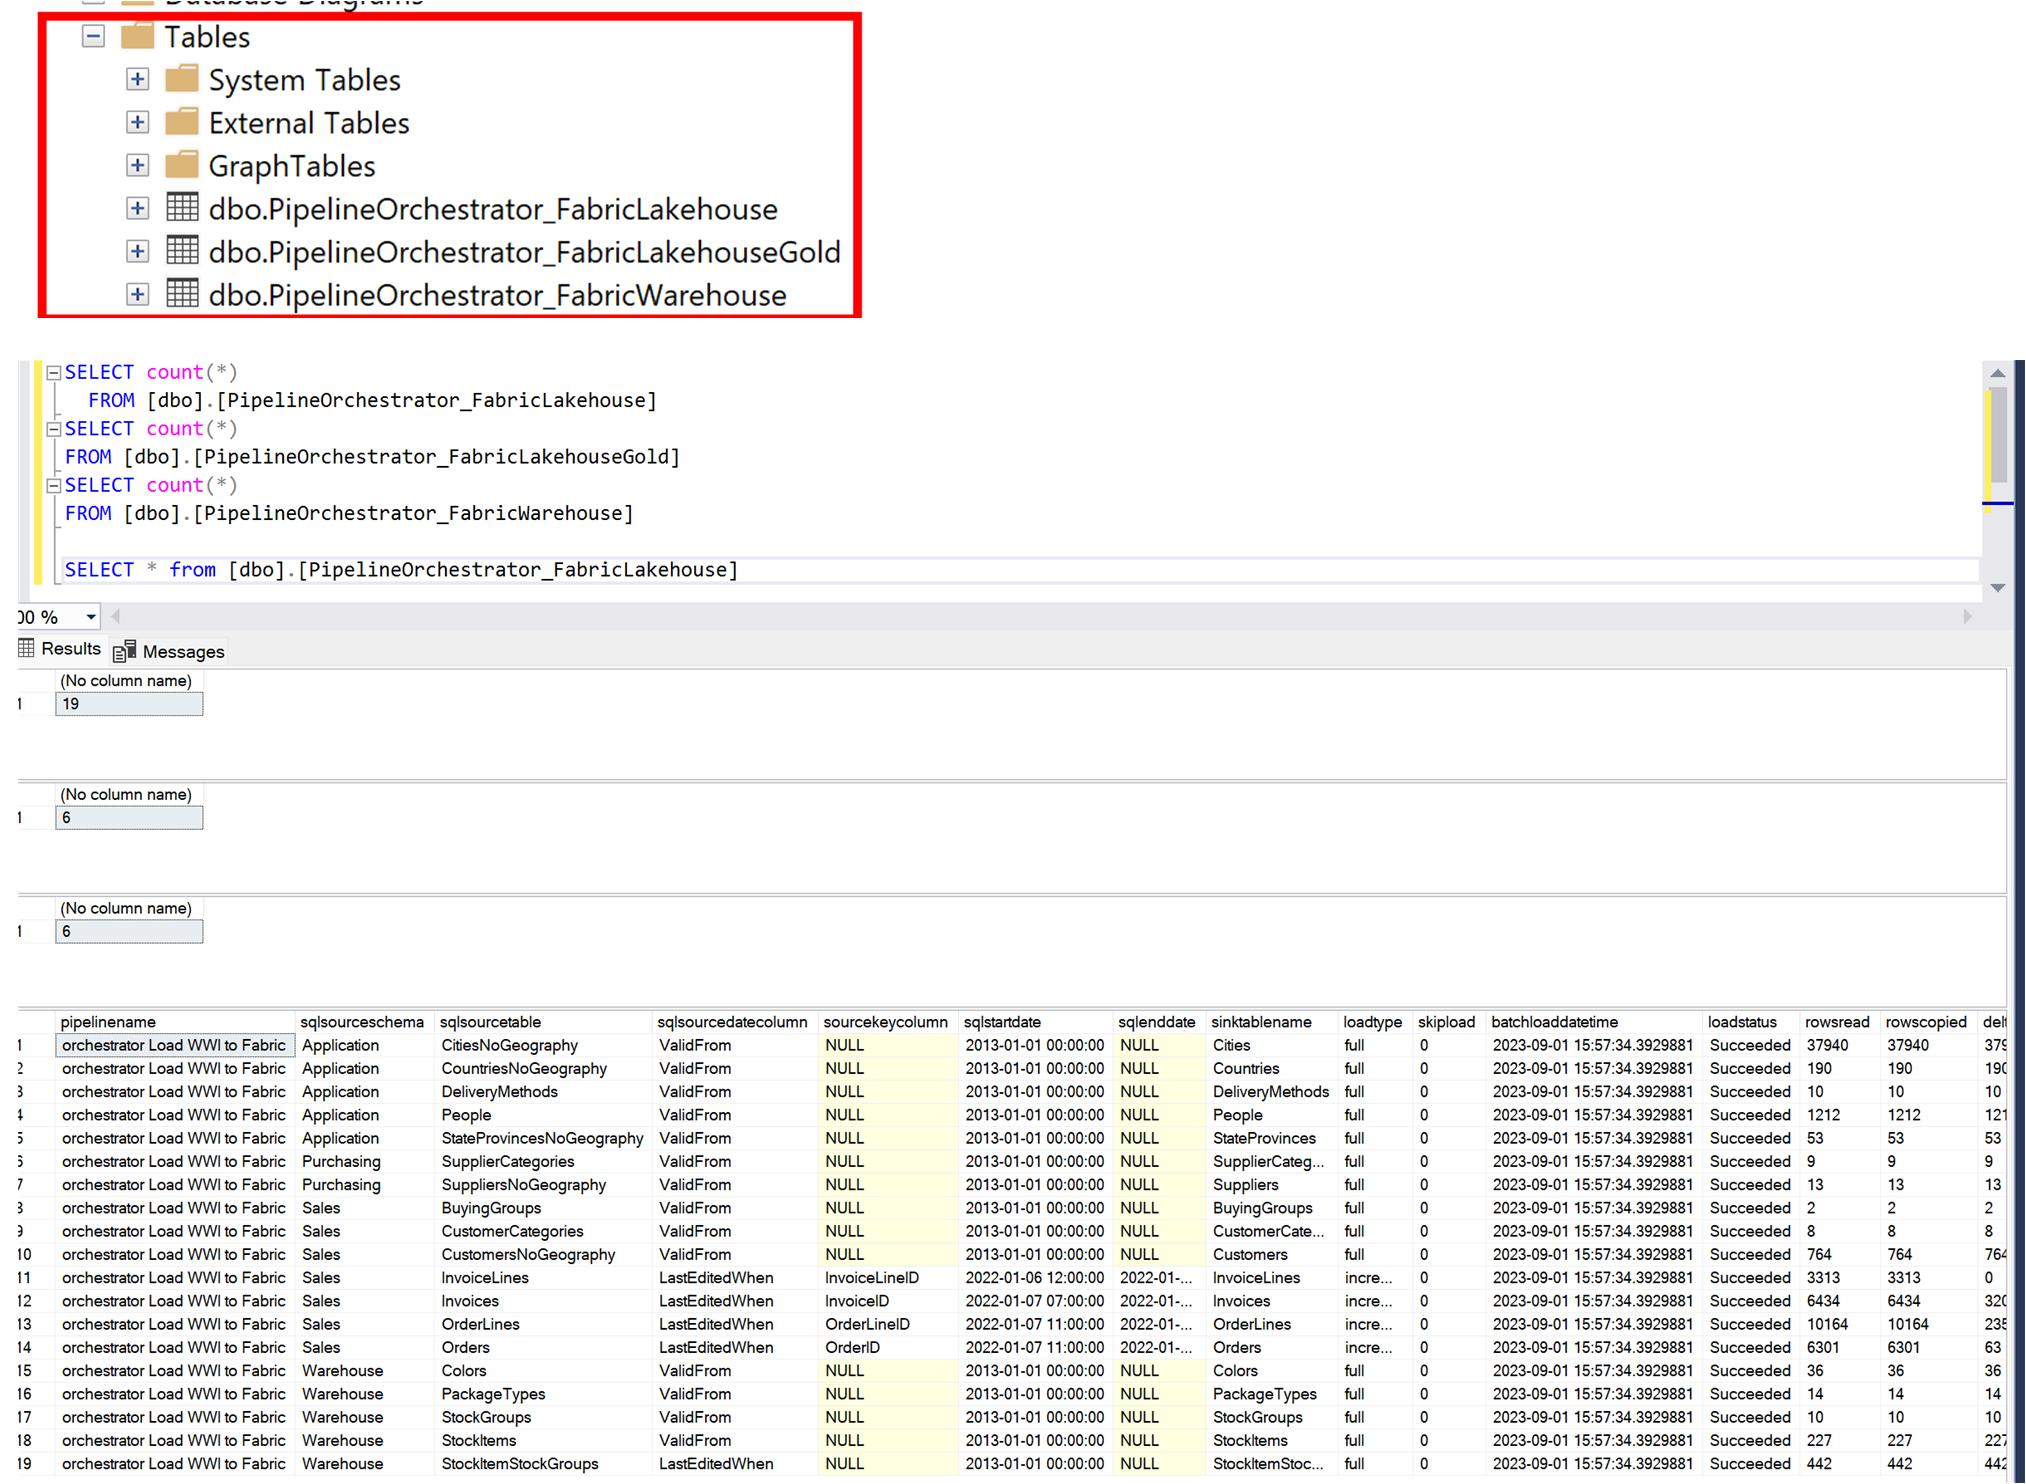
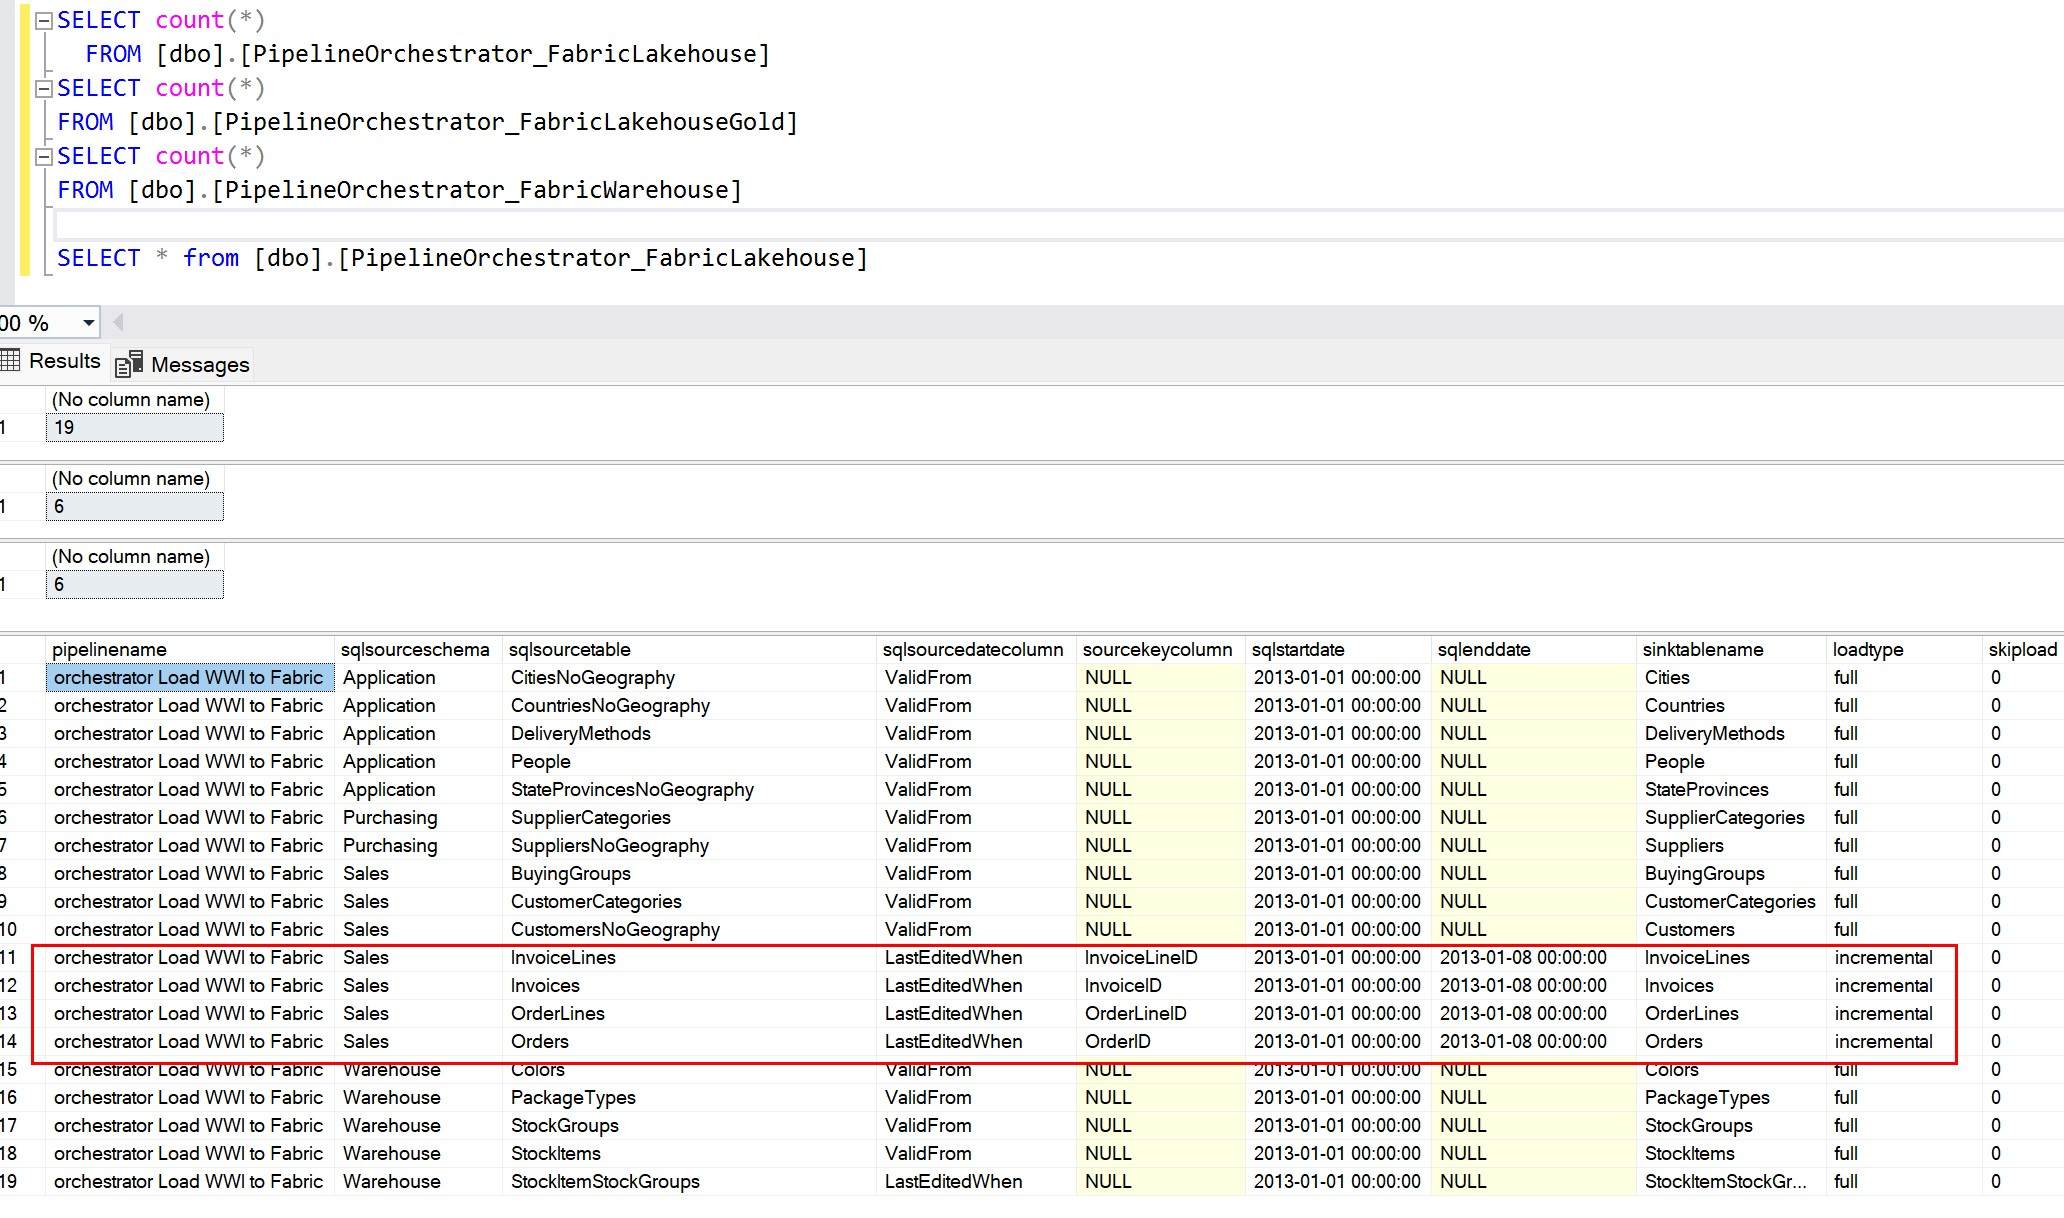
modified:   Fabric/src/deployment/Pattern1/README.md 	modified:   Fabric/src/deployment/Pattern1/images/metadata-tables-2.jpg

Changed region(s): [[0.0, 0.0, 1.0, 1.0]]

diff --git a/Fabric/src/deployment/Pattern1/README.md b/Fabric/src/deployment/Pattern1/README.md
@@ -2,7 +2,7 @@
 
 ## Description
 
-Metadata-driven pipelines in Azure Data Factory, Synapse Pipelines, and now, Microsoft Fabric, give you the capability to ingest and transform data with less code, reduced maintenance and greater scalability than writing code or pipelines for every data source that needs to be ingested and transformed. The key lies in identifying the data loading and transformation pattern(s) for your data sources and destinations and then building the framework to support each pattern.
+Metadata-driven pipelines in Azure Data Factory, Synapse Pipelines, and now, Microsoft Fabric, give you the capability to ingest and transform data with less code, reduced maintenance and greater scalability than writing code or pipelines for every data source entity that needs to be ingested and transformed. The key lies in identifying the data loading and transformation pattern(s) for your data sources and destinations and then building the framework to support each pattern.
 
 In August 2023, I created 2 blog posts on Metadata Driven Pipelines with Fabric. Both involve landing the data in a Fabric Lakehouse and building a Star Schema for the Gold Layer. [The first post](https://techcommunity.microsoft.com/t5/fasttrack-for-azure/metadata-driven-pipelines-for-microsoft-fabric/ba-p/3891651) illustrates creating the Star Schema in a Fabric Lakehouse. [The second post](https://techcommunity.microsoft.com/t5/fasttrack-for-azure/metadata-driven-pipelines-for-microsoft-fabric-part-2-data/ba-p/3906749) covers using a Fabric Data Warehouse for the Star Schema and why you may want to choose this option. 
 
@@ -10,7 +10,7 @@ This solution guide is a companion to the Metadata Driven Pipelines in Fabric po
 
 ## Architecture
 
-Below is a high level architecture diagram of what you will build in this tutorial: ![fabric_architecture](images/fabric_metadata_architecture.jpg)
+Below is a high level architecture diagram of what you will build in this solution: ![fabric_architecture](images/fabric_metadata_architecture.jpg)
 ## Prerequisites
 * Permissions to create the Azure Resource Group, Azure Storage Account, Azure SQL Server and Azure SQL DBs needed for this tutorial.
 * Permissions to create a Microsoft Fabric Workspace
@@ -52,6 +52,7 @@ Run scripts to create views, tables and stored procedures used in this tutorial.
 1. Download the SQL script found in [in this repo](src/sql/2-metadatadb/create-metadata-tables.sql)
 1. Connect to the FabricMetadataOrchestration database in SQL Server Management Studio or Azure Data Studio
 1. Run the script to script to create and load the tables. You should see the following tables as shown below: ![tables](images/metadata-tables-2.jpg)
+Notice the values for the **loadtype**,**sqlsourcedatecolumn**,**sqlstartdate**, and **sqlenddate** columns of the **PipelineOrchestrator_FabricLakehouse** table. For the tables with **loadtype** equal to 'incremental', only 1 weeks worth of data will be loaded. This is because these tables are very large so for testing purposes, we only need a small amount of data. After these tables are loaded into the Lakehouse, the **sqlstartdate** will be updated to the max date of each column indicated in the **sqlsourcedatecolumn** for each table. This means that if you run the pipeline again without resetting the **sqlenddate**, no new data will be added to the tables that are incrementally loaded. You may be tempted to set the **sqlenddate** to NULL, which is what the value would be for scheduled loads in production, but I would caution you against doing that in this solution without testing how long the load from the World Wide Importers database to the Lakehouse runs. Instead, update the **sqlenddate** to add just a few more days worth of data.
 ## Create Microsoft Fabric Resources
 Create the Microsoft Fabric Workspace, Lakehouses, Data Warehouse, and Azure SQL DB Connections.
 ### Create a Microsoft Fabric workspace
@@ -59,16 +60,16 @@ Create the Microsoft Fabric Workspace, Lakehouses, Data Warehouse, and Azure SQL
 ### Create Bronze and Gold Fabric Lakehouses
 [Create 2 Microsoft Fabric Lakehouses](https://learn.microsoft.com/en-us/fabric/data-engineering/create-lakehouse) in you workspace.
 After creating the Lakehouses, copy the lakehouse names and table URLs and keep for your reference. 
-* To get the URLs, open each Lakehouse and click on the ellipses next to the **Tables** folder. Choose **Properties** and copy the abfss file path. [getlakehouse](images/get_lakehouse_url.jpg)
+* To get the URLs, open each Lakehouse and click on the ellipses next to the **Tables** folder. Choose **Properties** and copy the abfss file path. ![getlakehouse](images/get_lakehouse_url.jpg)
 * Paste each into notepad or a Word document and remove the "/Tables" from the end of the string. Your string will look something like **abfss://\<uniqueid>@onelake.dfs.fabric.microsoft.com/a\<anotheruniqueid>**
 ### Create a Fabric Data Warehouse
 Create a Fabric Data Warehouse by [following the instructions here](https://learn.microsoft.com/en-us/fabric/data-warehouse/create-warehouse)
 ### Create Fabric Connections to your Azure SQL DBs
-Create 2 Fabric connections, one to the Wide World Importers Azure SQL DB and to the FabricMetadataConfiguration Azure SQL DB. [per the instructions here](https://learn.microsoft.com/en-us/fabric/data-factory/).
+Create 2 Fabric connections, one to the Wide World Importers Azure SQL DB and to the FabricMetadataConfiguration Azure SQL DB [per the instructions here](https://learn.microsoft.com/en-us/fabric/data-factory/).
 ### Upload Spark Notebooks to Fabric
 Upload the notebooks to be used in the pipeline
 1. Download the 3 notebooks [found in the repo](src/notebooks/)
-1. Log into the Microsoft Fabric portal and switch to the Data Science experience and click ![Import Notebook](images/datascience-import-1.jpg)
+1. Log into the Microsoft Fabric portal and switch to the Data Science experience and click **Import notebook**![Import Notebook](images/datascience-import-1.jpg)
 1. Select upload and choose all of the 3 notebooks ![downloaded.](images/datascience-import-2.jpg)
 
 ## Create Microsoft Fabric Pipelines and Objects
